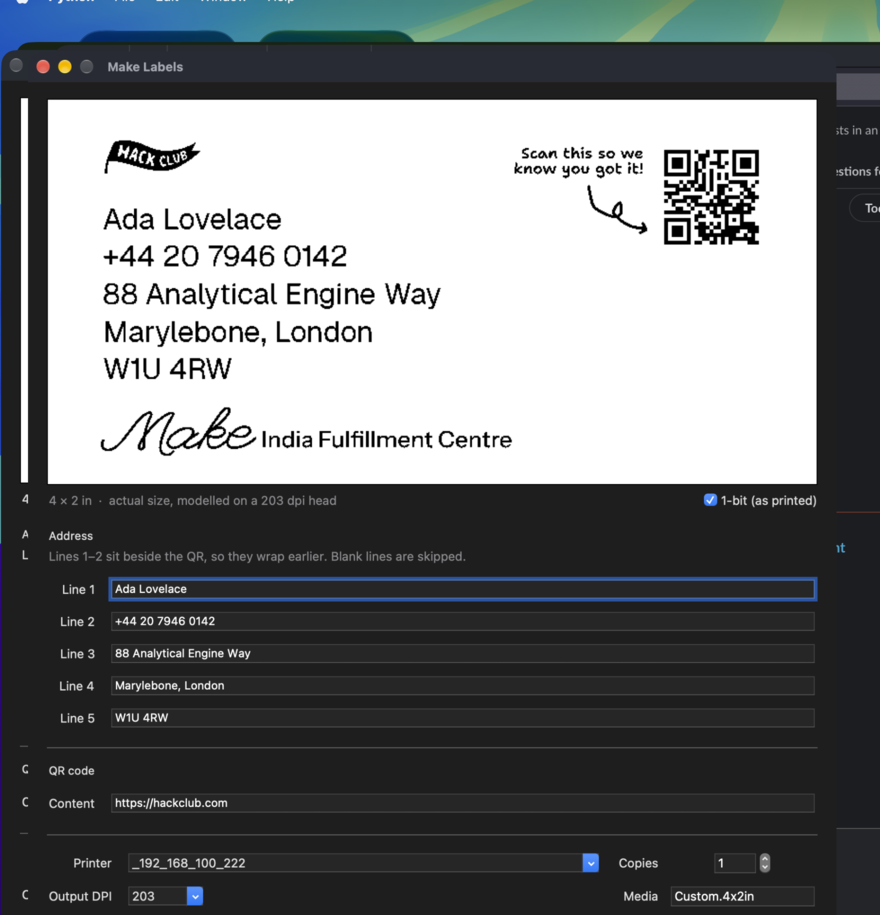
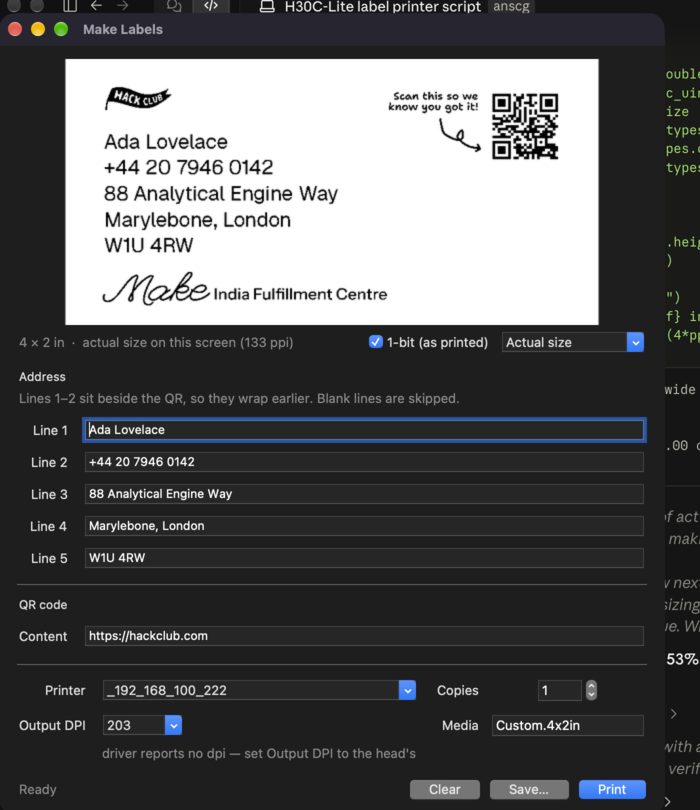
Add an actual-size preview and say what scale the preview is
The preview was showing the label at ~150% of life size on a Retina panel,
which made 203 dpi output look far rougher than it prints. Default to a true
actual-size view, measured from the display's physical size via CoreGraphics
since Tk's winfo_screenmm just assumes 96 dpi, and always state the scale
relative to paper. Dot grid 1:1 stays available for inspecting dots.

diff --git a/label_app.py b/label_app.py
@@ -28,6 +28,38 @@ FIELD_HINT = "Lines 1–2 sit beside the QR, so they wrap earlier. Blank lines a
 
 SAMPLE = lr.DEFAULT_LINES
 
+VIEW_ACTUAL = "Actual size"
+VIEW_DOTS = "Dot grid 1:1"
+VIEW_FIT = "Fit window"
+VIEW_CHOICES = (VIEW_ACTUAL, VIEW_DOTS, VIEW_FIT)
+
+
+def screen_ppi(root) -> float:
+    """Logical points per real inch of screen.
+
+    Tk's winfo_screenmm just assumes 96 dpi, which is wrong on every Retina
+    Mac, so ask CoreGraphics for the panel's true physical size first.
+    """
+    try:
+        import ctypes
+        import ctypes.util
+
+        class CGSize(ctypes.Structure):
+            _fields_ = [("width", ctypes.c_double), ("height", ctypes.c_double)]
+
+        cg = ctypes.cdll.LoadLibrary(ctypes.util.find_library("ApplicationServices"))
+        cg.CGMainDisplayID.restype = ctypes.c_uint32
+        cg.CGDisplayScreenSize.restype = CGSize
+        cg.CGDisplayScreenSize.argtypes = [ctypes.c_uint32]
+        display = cg.CGMainDisplayID()
+        mm_wide = cg.CGDisplayScreenSize(display).width
+        if mm_wide > 1:
+            return root.winfo_screenwidth() / (mm_wide / 25.4)
+    except Exception:  # noqa: BLE001 - any failure just falls back to Tk
+        pass
+    mm = root.winfo_screenmmwidth()
+    return root.winfo_screenwidth() / (mm / 25.4) if mm else 96.0
+
 
 # --------------------------------------------------------------------------- GUI
 
@@ -57,13 +89,15 @@ def run_gui(initial: lr.Label, dpi: int, media: str):
     # The canvas is elastic: it takes whatever room the window has left over.
     # At full size the label sits 1:1 with the printer's dot grid; when the
     # window is smaller than that, it scales down and says so.
+    ppi = screen_ppi(root)
+    actual_w = int(round(lr.LABEL_W_IN * ppi))
     preview_h = int(round(PREVIEW_W * lr.LABEL_H_IN / lr.LABEL_W_IN))
     try:
         surround = style.lookup("TFrame", "background") or root.cget("bg")
     except tk.TclError:
         surround = root.cget("bg")
     canvas = tk.Canvas(
-        outer, width=PREVIEW_W, height=preview_h,
+        outer, width=actual_w, height=int(round(actual_w / 2)),
         highlightthickness=0, borderwidth=0, background=surround,
     )
     outer.columnconfigure(0, weight=1)
@@ -74,6 +108,11 @@ def run_gui(initial: lr.Label, dpi: int, media: str):
     caption.grid(row=1, column=0, sticky="ew", pady=(4, 0))
     scale_lbl = ttk.Label(caption, text="", style="Muted.TLabel")
     scale_lbl.pack(side="left")
+    view_var = tk.StringVar(value=VIEW_ACTUAL)
+    ttk.Combobox(
+        caption, textvariable=view_var, values=VIEW_CHOICES,
+        state="readonly", width=13,
+    ).pack(side="right", padx=(10, 0))
     ttk.Checkbutton(
         caption, text="1-bit (as printed)", variable=mono_var,
     ).pack(side="right")
@@ -198,19 +237,27 @@ def run_gui(initial: lr.Label, dpi: int, media: str):
             set_status(f"Preview failed: {exc}", error=True)
             return
 
-        # Largest 2:1 box that fits, never magnified past the dot grid.
-        disp_w = min(avail_w, avail_h * 2, PREVIEW_W)
+        mode = view_var.get()
+        if mode == VIEW_DOTS:
+            want = PREVIEW_W
+        elif mode == VIEW_FIT:
+            want = avail_w
+        else:
+            want = actual_w
+        # Never magnify past the dot grid: beyond 1:1 there is nothing to show.
+        disp_w = max(120, min(want, avail_w, avail_h * 2, PREVIEW_W))
         disp_h = int(round(disp_w / 2))
+
         if disp_w < PREVIEW_W:
             img = img.convert("L").resize((disp_w, disp_h), lr.Image.LANCZOS)
-            pct = round(disp_w * 100 / PREVIEW_W)
-            scale_lbl.configure(
-                text=f"4 × 2 in  ·  {pct}% — zoomed out, not dot-exact"
-            )
+        life = disp_w / actual_w * 100          # size on screen vs on paper
+        if abs(life - 100) < 2:
+            note = f"actual size on this screen ({ppi:.0f} ppi)"
         else:
-            scale_lbl.configure(
-                text=f"4 × 2 in  ·  1:1, one pixel per dot on a {PREVIEW_DPI} dpi head"
-            )
+            note = f"{life:.0f}% of actual size"
+        if disp_w == PREVIEW_W:
+            note += f"  ·  1:1 with the {PREVIEW_DPI} dpi dot grid"
+        scale_lbl.configure(text=f"4 × 2 in  ·  {note}")
 
         state["photo"] = ImageTk.PhotoImage(img)
         canvas.delete("all")
@@ -235,7 +282,7 @@ def run_gui(initial: lr.Label, dpi: int, media: str):
             root.after_cancel(state["job"])
         state["job"] = root.after(160, draw_preview)
 
-    for var in list(entries) + [qr_var, mono_var]:
+    for var in list(entries) + [qr_var, mono_var, view_var]:
         var.trace_add("write", schedule_preview)
 
     # ---- save / print ------------------------------------------------------
@@ -320,7 +367,7 @@ def run_gui(initial: lr.Label, dpi: int, media: str):
     # shrink until the label is a 240pt thumbnail, so this still fits a 1280x800
     # laptop, then open as large as the screen comfortably allows.
     chrome_h = root.winfo_reqheight() - canvas.winfo_reqheight()
-    min_w = max(460, root.winfo_reqwidth() - PREVIEW_W + 240)
+    min_w = max(460, root.winfo_reqwidth() - actual_w + 240)
     root.minsize(min_w, chrome_h + 100)
 
     want_w, want_h = root.winfo_reqwidth(), root.winfo_reqheight()

diff --git a/README.md b/README.md
@@ -44,10 +44,19 @@ visibly uneven.
 Lines that run too wide shrink to fit rather than overflowing. Lines 1–2 sit
 beside the QR so they wrap earlier than 3–5. Blank lines are skipped.
 
-The window is resizable and the preview is the part that gives: at full size
-the label sits 1:1 with the dot grid, and below that it scales down and the
-caption says so rather than pretending to be dot-exact. It fits a 1280 × 800
-laptop (minimum 460 × 598).
+The window is resizable and the preview is the part that gives. Three views:
+
+- **Actual size** (default) — the label at its true physical dimensions, using
+  the panel's real ppi from CoreGraphics rather than Tk's fabricated 96 dpi.
+  This is what the printed label looks like in the hand.
+- **Dot grid 1:1** — one screen pixel per printer dot. On a Retina laptop this
+  is around 150% of life size, so it magnifies the stair-stepping; useful for
+  checking the dots, misleading as a quality judgement.
+- **Fit window** — fills whatever room there is.
+
+The caption always states the size relative to paper, so the preview never
+quietly flatters or maligns the output. Minimum window is 460 × 604, which
+fits a 1280 × 800 laptop.
 
 ## CLI
 
